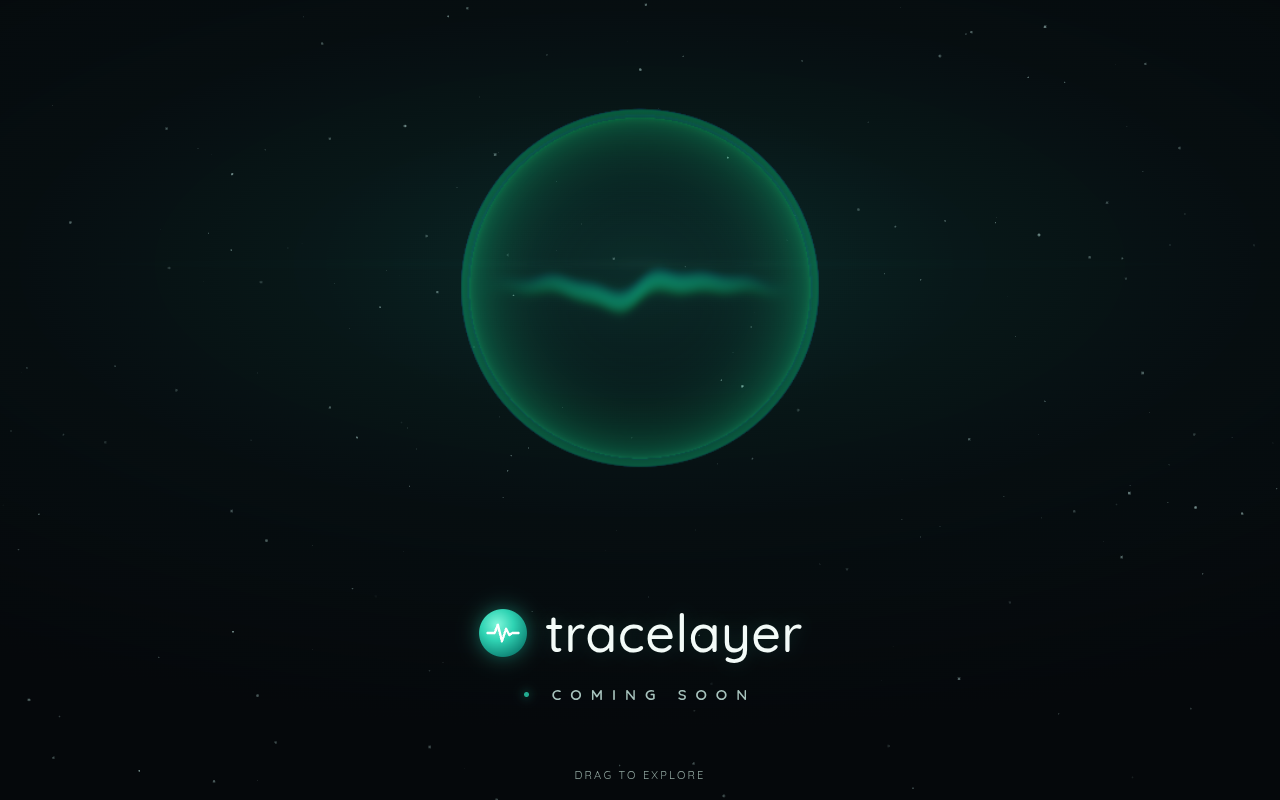
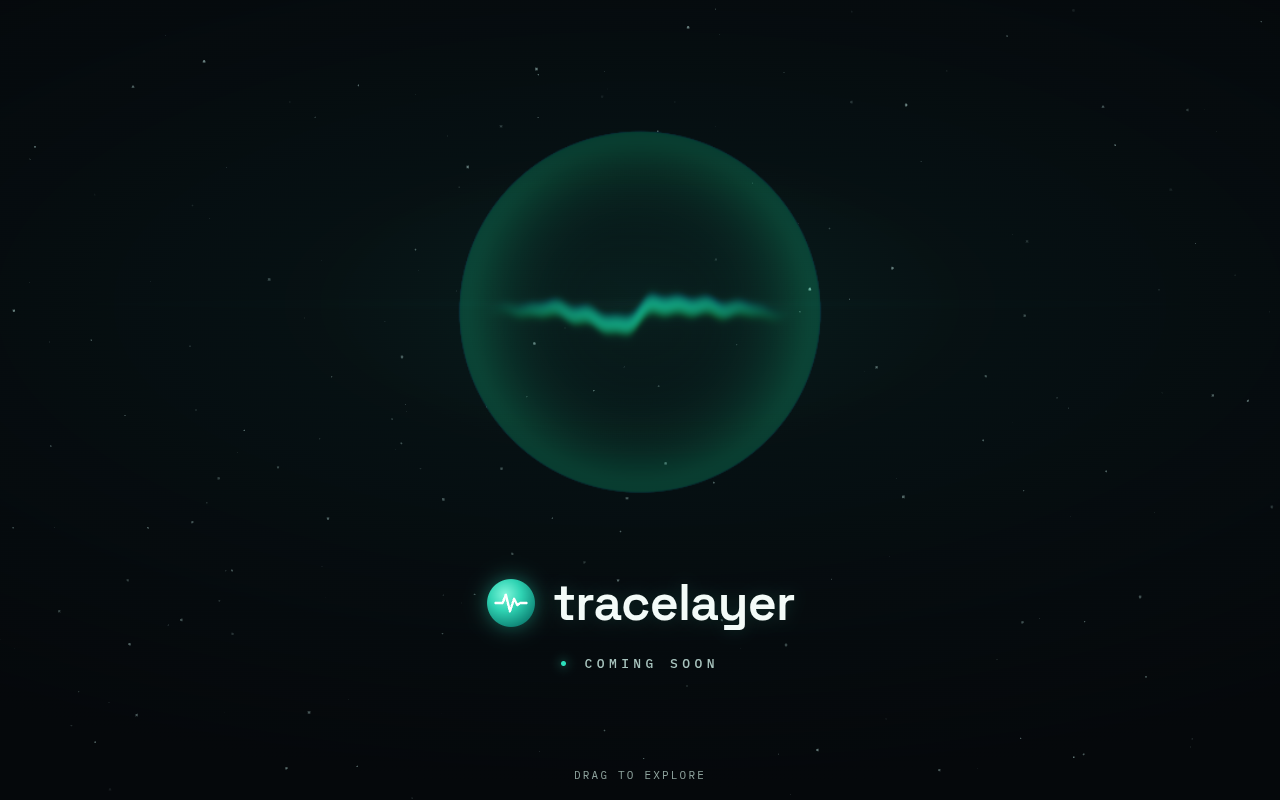
Refine Voice hero from feedback: soft sphere edges, energetic waveform, new type
- Remove the hard Fresnel rim + soften the halo into a gentle outer bloom, so
  the edge reads as a glowing sphere again, not a hard-outlined circle
- Add faint moving internal haze for volume/depth behind the waveform
- More waveform energy: bigger amplitude, spikier high-freq layer, sharper line
- Push palette: brighter teal waveform (#3fe9c4) + emerald body (#12a07a)
- Tighten the orb-to-wordmark gap
- Switch typography to Space Grotesk (wordmark) + IBM Plex Mono (labels/nav)

Claude-Session: https://claude.ai/code/session_01DA5k67mkCKbe9f7kUgNswQ

diff --git a/assets/site.css b/assets/site.css
@@ -2,27 +2,27 @@
    tracelayer — shared site styles (used by every orb variation page)
    --------------------------------------------------------------------------- */
 
-/* Self-hosted Quicksand — rounded geometric wordmark matching the logo.
-   Paths are relative to this file (assets/site.css). */
+/* Self-hosted type. Paths are relative to this file (assets/site.css).
+   Wordmark: Space Grotesk (technical geometric). Labels: IBM Plex Mono. */
 @font-face {
-    font-family: 'Quicksand';
-    font-style: normal; font-weight: 400; font-display: swap;
-    src: url('../vendor/fonts/quicksand-latin-400-normal.woff2') format('woff2');
-}
-@font-face {
-    font-family: 'Quicksand';
+    font-family: 'Space Grotesk';
     font-style: normal; font-weight: 500; font-display: swap;
-    src: url('../vendor/fonts/quicksand-latin-500-normal.woff2') format('woff2');
+    src: url('../vendor/fonts/space-grotesk-latin-500-normal.woff2') format('woff2');
 }
 @font-face {
-    font-family: 'Quicksand';
+    font-family: 'Space Grotesk';
     font-style: normal; font-weight: 600; font-display: swap;
-    src: url('../vendor/fonts/quicksand-latin-600-normal.woff2') format('woff2');
+    src: url('../vendor/fonts/space-grotesk-latin-600-normal.woff2') format('woff2');
 }
 @font-face {
-    font-family: 'Quicksand';
-    font-style: normal; font-weight: 700; font-display: swap;
-    src: url('../vendor/fonts/quicksand-latin-700-normal.woff2') format('woff2');
+    font-family: 'IBM Plex Mono';
+    font-style: normal; font-weight: 400; font-display: swap;
+    src: url('../vendor/fonts/ibm-plex-mono-latin-400-normal.woff2') format('woff2');
+}
+@font-face {
+    font-family: 'IBM Plex Mono';
+    font-style: normal; font-weight: 500; font-display: swap;
+    src: url('../vendor/fonts/ibm-plex-mono-latin-500-normal.woff2') format('woff2');
 }
 
 :root {
@@ -41,7 +41,7 @@ html, body {
     overflow: hidden;
     background-color: var(--bg);
     color: var(--text);
-    font-family: 'Quicksand', system-ui, -apple-system, sans-serif;
+    font-family: 'Space Grotesk', system-ui, -apple-system, sans-serif;
     -webkit-font-smoothing: antialiased;
 }
 
@@ -52,8 +52,8 @@ html, body {
     /* Ground-lift vignette: near-black at the edges, lifted behind the orb so
        the sphere has something to sit against and reads brighter. */
     background:
-        radial-gradient(115% 75% at 50% 33%, rgba(24, 90, 82, 0.32) 0%, rgba(8, 20, 22, 0.55) 42%, #05080b 78%),
-        radial-gradient(42% 34% at 50% 33%, rgba(31, 220, 180, 0.07) 0%, rgba(0,0,0,0) 60%);
+        radial-gradient(115% 78% at 50% 38%, rgba(20, 78, 72, 0.22) 0%, rgba(7, 17, 20, 0.5) 44%, #05080b 78%),
+        radial-gradient(40% 32% at 50% 38%, rgba(31, 220, 180, 0.05) 0%, rgba(0,0,0,0) 60%);
 }
 
 #stars { position: fixed; inset: 0; z-index: 0; opacity: 0.7; pointer-events: none; }
@@ -61,7 +61,7 @@ html, body {
 /* Faint horizontal bloom behind the orb — kept very subtle so it never
    competes with the orb or (in voice mode) the waveform. */
 #streak {
-    position: fixed; left: 0; right: 0; top: 33%; height: 2px;
+    position: fixed; left: 0; right: 0; top: 38%; height: 2px;
     transform: translateY(-50%); z-index: 1; pointer-events: none;
     background: linear-gradient(90deg,
         rgba(47,240,200,0) 0%, rgba(47,240,200,0.035) 38%,
@@ -74,7 +74,7 @@ html, body {
 
 /* Static CSS orb — only revealed when WebGL can't run */
 #orb-fallback {
-    position: fixed; top: 34%; left: 50%;
+    position: fixed; top: 38%; left: 50%;
     width: min(48vw, 34vh); aspect-ratio: 1;
     transform: translate(-50%, -50%); z-index: 2;
     border-radius: 50%; display: none;
@@ -101,7 +101,8 @@ body.no-webgl .hint { display: none; }
     opacity: 0; animation: rise 1.2s cubic-bezier(0.16, 1, 0.3, 1) 0.6s forwards;
 }
 .nav a {
-    font-size: 12px; font-weight: 600; letter-spacing: 0.03em;
+    font-family: 'IBM Plex Mono', monospace;
+    font-size: 12px; font-weight: 500; letter-spacing: 0.02em;
     color: rgba(200, 224, 219, 0.6); text-decoration: none;
     padding: 7px 15px; border-radius: 999px;
     transition: background 0.2s ease, color 0.2s ease; white-space: nowrap;
@@ -114,7 +115,7 @@ body.no-webgl .hint { display: none; }
 .overlay {
     position: fixed; inset: 0; z-index: 3;
     display: flex; flex-direction: column; align-items: center; justify-content: flex-end;
-    padding-bottom: clamp(48px, 12vh, 120px);
+    padding-bottom: clamp(56px, 16vh, 140px);
     pointer-events: none; text-align: center;
 }
 .brand {
@@ -127,13 +128,15 @@ body.no-webgl .hint { display: none; }
     filter: drop-shadow(0 0 10px rgba(47, 240, 200, 0.4));
 }
 .brand-name {
-    font-size: clamp(30px, 5.5vw, 52px); font-weight: 500; letter-spacing: 0.5px;
+    font-family: 'Space Grotesk', system-ui, sans-serif;
+    font-size: clamp(30px, 5.4vw, 50px); font-weight: 600; letter-spacing: -0.015em;
     color: #f3fbf8; text-shadow: 0 0 16px rgba(47, 240, 200, 0.14);
 }
 /* Contrast ramp: wordmark ~15:1 (above) · label ~5:1 · hint ~4.5:1 */
 .tagline {
-    margin-top: 20px; font-size: clamp(12px, 1.7vw, 15px); font-weight: 600;
-    letter-spacing: 0.6em; text-indent: 0.6em; color: #a7c3bd;
+    margin-top: 20px; font-family: 'IBM Plex Mono', monospace;
+    font-size: clamp(11px, 1.5vw, 13px); font-weight: 500;
+    letter-spacing: 0.34em; text-indent: 0.34em; color: #a7c3bd;
     display: flex; align-items: center; gap: 14px; opacity: 0;
     animation: rise 1.4s cubic-bezier(0.16, 1, 0.3, 1) 0.8s forwards;
 }
@@ -161,6 +164,7 @@ body.no-webgl .hint { display: none; }
 
 .hint {
     position: fixed; bottom: max(18px, env(safe-area-inset-bottom)); left: 0; right: 0; z-index: 3;
+    font-family: 'IBM Plex Mono', monospace;
     text-align: center; font-size: 11px; letter-spacing: 0.2em;
     color: #8ea39d; pointer-events: none; text-transform: uppercase;
 }

diff --git a/assets/orb.js b/assets/orb.js
@@ -94,20 +94,25 @@ const STRUCT = {
         w += 0.32 * sin(x * 3.0  + t * 5.0);
         w += 0.16 * sin(x * 6.3  - t * 7.7);
         w += 0.09 * sin(x * 11.0 + t * 10.5);
+        w += 0.07 * sin(x * 19.0 - t * 13.0);   // spikier high-frequency detail
         float env = exp(-x * x * 0.55) * speech;
         w *= env;
         float dy = pos.y - w;
-        float line = exp(-(dy * dy) / 0.02);
+        float line = exp(-(dy * dy) / 0.014);    // thinner, sharper waveform
         float zfade = exp(-pos.z * pos.z * 0.6);
         float xin = exp(-x * x * 0.10);
         float core = smoothstep(2.0, 0.1, r);
-        float ribbon = line * zfade * xin * core * 1.8;
+        float ribbon = line * zfade * xin * core * 2.2;   // more energy
         // Radiating rings, brightened by the same envelope so they pulse on peaks.
         float rings = pow(0.5 + 0.5 * sin(r * 5.0 - t * 3.5), 4.0);
         float ringGlow = rings * smoothstep(2.0, 0.2, r) * (0.10 + 0.45 * speech) * 0.4;
-        // Faint interior fill so the globe still reads as a sphere.
-        float fill = smoothstep(2.0, 0.0, r) * 0.05;
-        return ribbon + ringGlow + fill;
+        // Soft moving internal haze so the orb reads as a deep sphere (volume),
+        // not a flat lit disc — sits behind the waveform at low amplitude.
+        float haze = (0.5 + 0.5 * sin(pos.x * 2.0 + t * 0.5))
+                   * (0.5 + 0.5 * sin(pos.y * 2.3 - t * 0.4))
+                   * (0.5 + 0.5 * sin(pos.z * 1.8 + t * 0.3));
+        haze *= smoothstep(2.0, 0.15, r) * 0.13;
+        return ribbon + ringGlow + haze;
     }`
 };
 
@@ -190,14 +195,16 @@ export function initOrb(userConfig) {
         secondary: '#524dac',     // wisp colour (thin regions)
         speed: 0.5,
         density: 1.5,
-        atmosphereGlow: 0.4,          // stronger halo so the orb owns the light
-        atmosphereLevel: 1.0,
-        atmosphereScale: 1.05,
+        // Soft outer bloom, not a tight bright ring — keeps the edge feeling
+        // like a glowing sphere rather than a hard-outlined circle.
+        atmosphereGlow: 0.22,
+        atmosphereLevel: 0.7,
+        atmosphereScale: 1.06,
         orbRotation: 0.3,
         internalAnim: 0.38,
         chromaticAberration: 0.014,
-        rimColor: '#6cead0',          // Fresnel rim tint (bright teal)
-        rimStrength: 0.35,
+        rimColor: '#6cead0',
+        rimStrength: 0.0,             // no hard Fresnel rim — soft edges preferred
         twist: true,
         // fractal-only tuning
         fractalIters: 4, fractalScale: 0.97, fractalDecay: -16.7,
@@ -236,7 +243,7 @@ export function initOrb(userConfig) {
 
     // Raise the orb into the upper portion of the screen (fraction of height)
     // with a camera view-offset, so the orbit target stays on the orb.
-    const ORB_SHIFT = 0.14;
+    const ORB_SHIFT = 0.11;
     function applyViewOffset() {
         camera.setViewOffset(window.innerWidth, window.innerHeight, 0, window.innerHeight * ORB_SHIFT, window.innerWidth, window.innerHeight);
     }

diff --git a/index.html b/index.html
@@ -58,7 +58,7 @@
 
     <script type="module">
         import { initOrb } from './assets/orb.js';
-        initOrb({"mode":"voice","primary":"#31dcb4","secondary":"#158f76","density":1.75,"orbRotation":0,"twist":false,"atmosphereGlow":0.42,"chromaticAberration":0.01,"rimStrength":0.4});
+        initOrb({"mode":"voice","primary":"#3fe9c4","secondary":"#12a07a","density":1.8,"orbRotation":0,"twist":false,"chromaticAberration":0.01});
     </script>
 </body>
 </html>

diff --git a/v-fractal.html b/v-fractal.html
@@ -58,7 +58,7 @@
 
     <script type="module">
         import { initOrb } from './assets/orb.js';
-        initOrb({"mode":"fractal","primary":"#2ec9a6","secondary":"#4a44c8","density":1.5,"orbRotation":0.3,"twist":true,"atmosphereGlow":0.38});
+        initOrb({"mode":"fractal","primary":"#2ec9a6","secondary":"#4a44c8","density":1.5,"orbRotation":0.3,"twist":true});
     </script>
 </body>
 </html>

diff --git a/v-indigo-teal.html b/v-indigo-teal.html
@@ -58,7 +58,7 @@
 
     <script type="module">
         import { initOrb } from './assets/orb.js';
-        initOrb({"mode":"fractal","primary":"#5b57c4","secondary":"#31dcb4","density":1.5,"orbRotation":0.3,"twist":true,"atmosphereGlow":0.38});
+        initOrb({"mode":"fractal","primary":"#5b57c4","secondary":"#31dcb4","density":1.5,"orbRotation":0.3,"twist":true});
     </script>
 </body>
 </html>

diff --git a/v-pulse.html b/v-pulse.html
@@ -58,7 +58,7 @@
 
     <script type="module">
         import { initOrb } from './assets/orb.js';
-        initOrb({"mode":"pulse","primary":"#2ec9a6","secondary":"#1a8f7a","density":1.8,"orbRotation":0.12,"twist":false,"atmosphereGlow":0.4});
+        initOrb({"mode":"pulse","primary":"#33d6b0","secondary":"#159a76","density":1.8,"orbRotation":0.12,"twist":false});
     </script>
 </body>
 </html>
